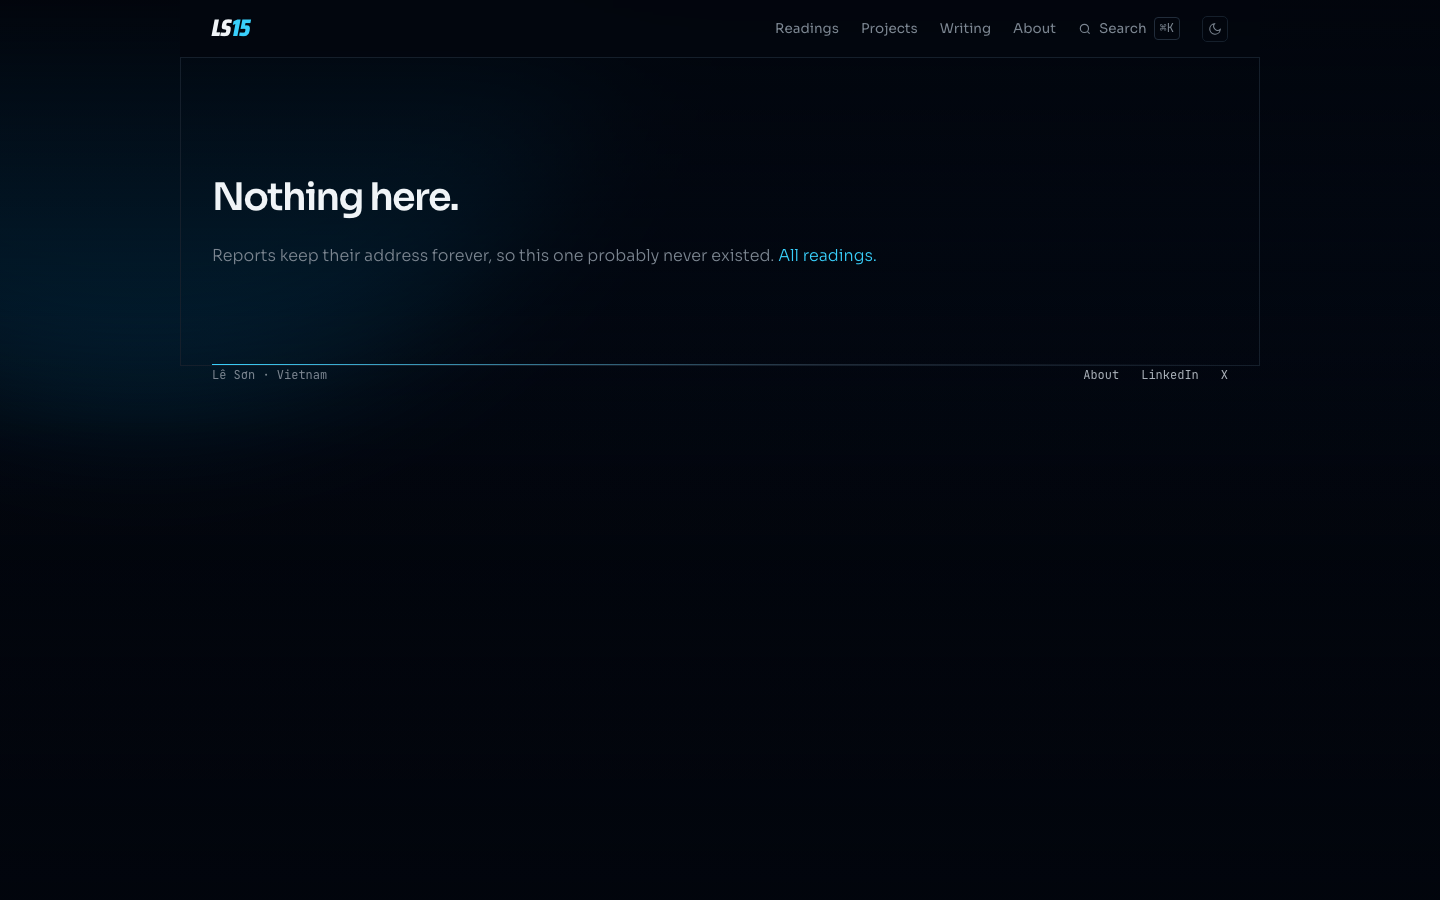
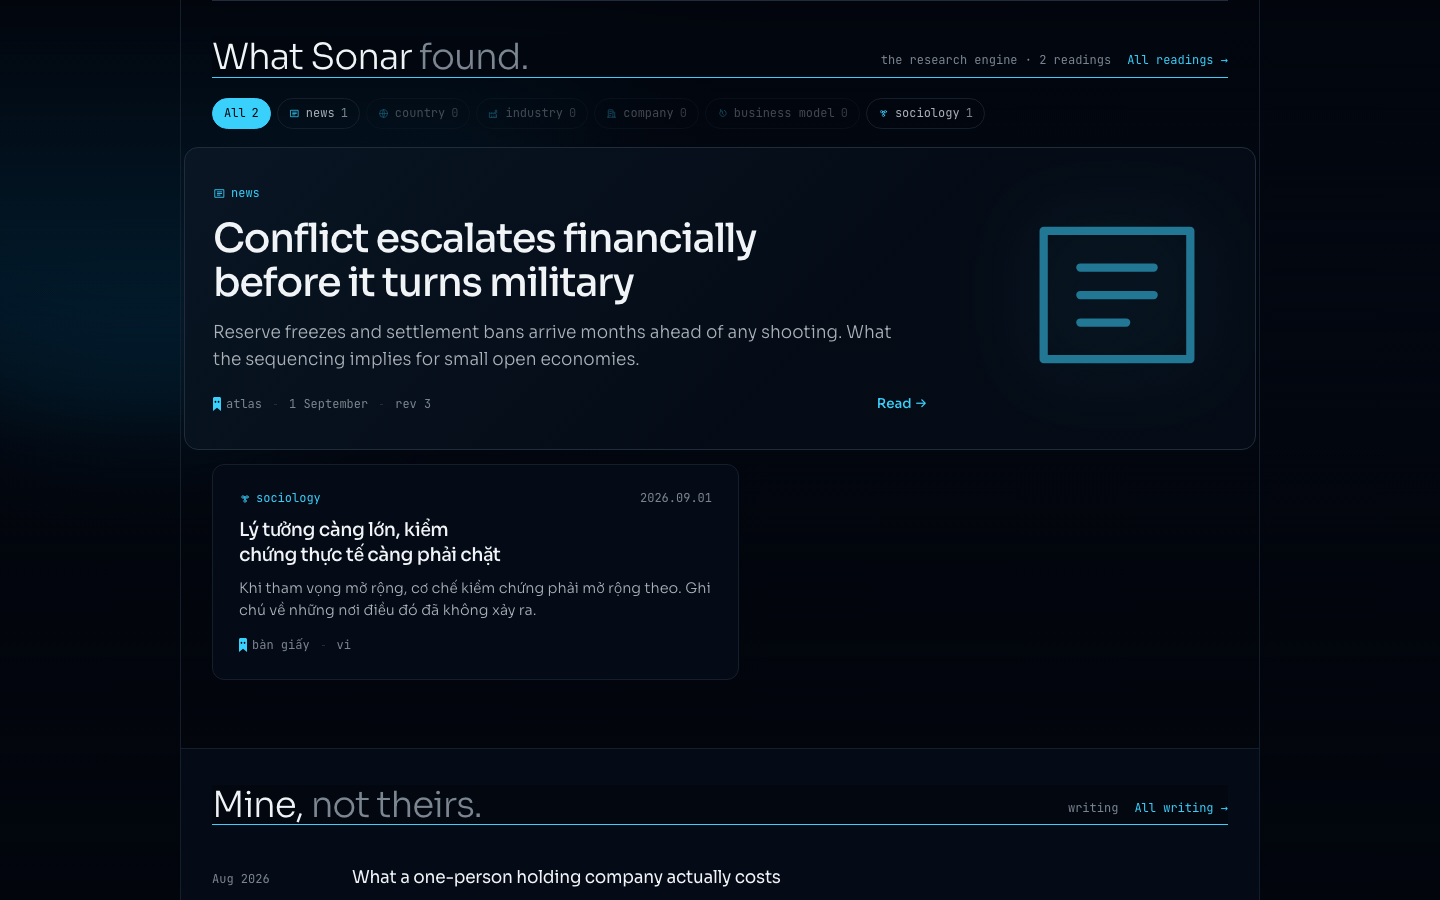
Fix: restore the date helper on the home

diff --git a/DESIGN.md b/DESIGN.md
@@ -96,8 +96,8 @@ lives on `/about/`. The ledger lives at `/readings/`.
 3. Meet Alfred, my CEO (band): one paragraph, no more, and Alfred sliding in.
 3b. The portfolio: project cards from the `projects` collection (01 Research
    Engine, live, with Find / Research / Publish; 02 F1 YouTube, next), each
-   linking to its profile and build diary. "The product, in use." over the
-   readings. No scroll cue.
+   linking to its profile and build diary. "What Sonar found." over the readings (the `Found` component: theme pills,
+   featured, grid), repeated on `/projects/sonar/`. No scroll cue.
 4. What the team found: a compact filter row (All + six kinds with counts,
    empty kinds disabled) at the top of the block that filters in place; one
    **featured** reading (its kind drawn large, accent sweep on hover); a grid
